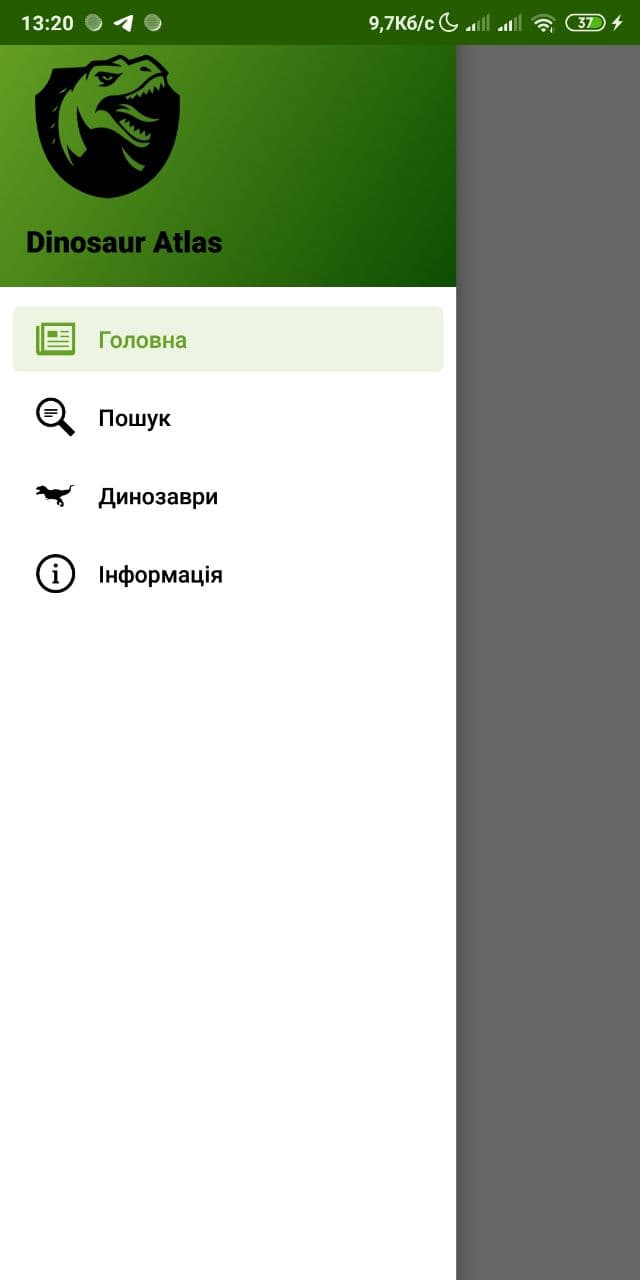
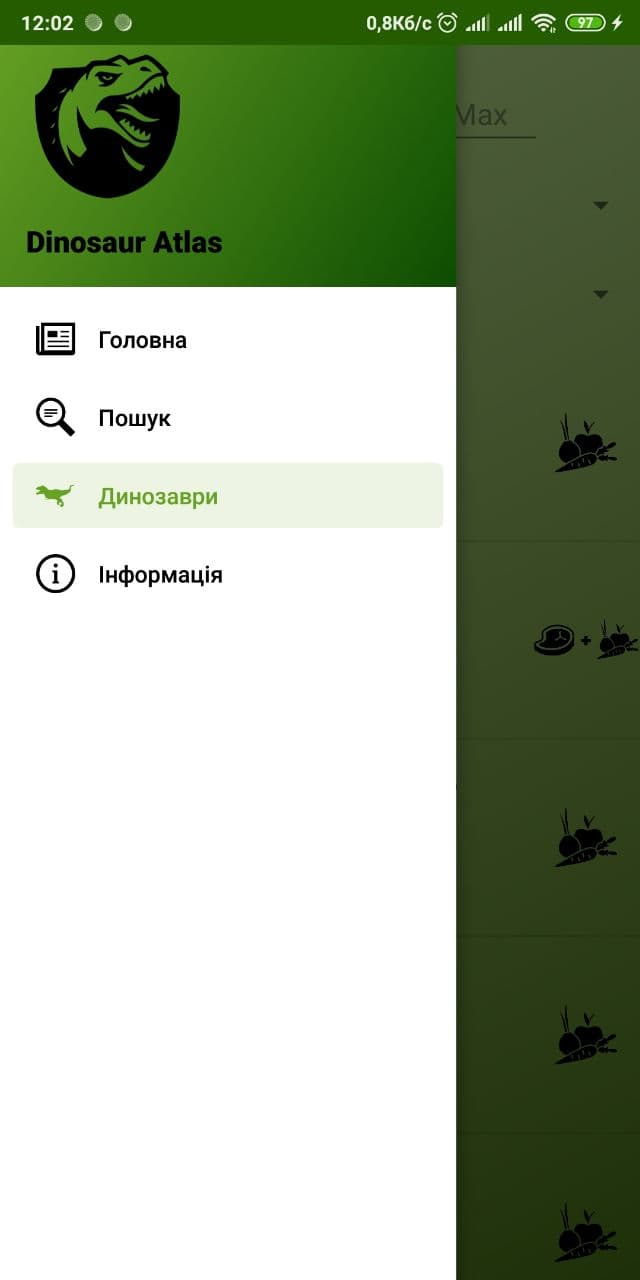
add new filters for dino eat and period, add new screanshots

diff --git a/Dino/app/src/main/java/vtpr/projects/dino/ui/filter/FilterFragment.java b/Dino/app/src/main/java/vtpr/projects/dino/ui/filter/FilterFragment.java
@@ -10,7 +10,10 @@ import android.text.TextWatcher;
 import android.view.LayoutInflater;
 import android.view.View;
 import android.view.ViewGroup;
+import android.widget.AdapterView;
+import android.widget.ArrayAdapter;
 import android.widget.EditText;
+import android.widget.Spinner;
 
 import androidx.annotation.NonNull;
 import androidx.fragment.app.Fragment;
@@ -22,6 +25,7 @@ import androidx.recyclerview.widget.RecyclerView;
 import java.io.IOException;
 import java.util.ArrayList;
 import java.util.List;
+import java.util.SortedMap;
 
 import vtpr.projects.dino.DatabaseHelper;
 import vtpr.projects.dino.DinoAdapter;
@@ -35,23 +39,27 @@ public class FilterFragment extends Fragment {
     private DatabaseHelper mDBHelper;
     private SQLiteDatabase mDb;
     private static List<Dino> dinoList = new ArrayList<>();
-    private static List<Dino> clearList = new ArrayList<>();
+    ArrayList<Dino> filteredlist = new ArrayList<>();
     private RecyclerView recyclerView;
-    private DinoAdapter dAdapter, clearAdapter;
+    private DinoAdapter dAdapter;
     private DinoAdapter.RecyclerViewClickListener listener;
     private String text_max, text_min;
     private int text_int_min = 0, text_int_max = 1000000;
     private int weight_int;
+    private int eat_int=0;
+    private String period_string="Не обрано";
     public EditText editText_min;
     public EditText editText_max;
+    private String[] data_eat = {"Не обрано","М'ясоїдні", "Рослиноїдні", "Всеядні"};
+    private String[] data_period = {"Не обрано","Крейдовий", "Юрський", "Тріасовий"};
 
     public View onCreateView(@NonNull LayoutInflater inflater,
                              ViewGroup container, Bundle savedInstanceState) {
         View view = inflater.inflate(R.layout.fragment_list_2, container,false);
         setOnClickListener();
         recyclerView = (RecyclerView) view.findViewById(R.id.rec_view);
+        dinoList.clear();
         dAdapter = new DinoAdapter(dinoList, listener);
-        clearAdapter = new DinoAdapter(clearList, listener);
         RecyclerView.LayoutManager mLayoutManager = new LinearLayoutManager(getContext());
         recyclerView.setLayoutManager(mLayoutManager);
         recyclerView.setItemAnimator(new DefaultItemAnimator());
@@ -90,15 +98,7 @@ public class FilterFragment extends Fragment {
                     text_min = s.toString();
                     text_int_min = Integer.parseInt(text_min);
                 }
-                if(text_int_min<=text_int_max)
-                {
-                    recyclerView.setAdapter(dAdapter);
-                    filter();
-                }
-                else
-                {
-                    recyclerView.setAdapter(clearAdapter);
-                }
+                filter();
             }
         });
 
@@ -122,15 +122,40 @@ public class FilterFragment extends Fragment {
                     text_max = s.toString();
                     text_int_max = Integer.parseInt(text_max);
                 }
-                if(text_int_max>=text_int_min)
-                {
-                    recyclerView.setAdapter(dAdapter);
-                    filter();
-                }
-                else
-                {
-                    recyclerView.setAdapter(clearAdapter);
-                }
+                filter();
+            }
+        });
+
+        ArrayAdapter<String> adapter_eat = new ArrayAdapter<String>(getContext(), android.R.layout.simple_spinner_item, data_eat);
+        adapter_eat.setDropDownViewResource(android.R.layout.simple_spinner_dropdown_item);
+        Spinner spinner_eat = view.findViewById(R.id.spinner_eat);
+        spinner_eat.setAdapter(adapter_eat);
+        spinner_eat.setSelection(0);
+        spinner_eat.setOnItemSelectedListener(new AdapterView.OnItemSelectedListener() {
+            @Override
+            public void onItemSelected(AdapterView<?> parent, View view,
+                                       int position, long id) {
+                eat_select(position);
+                filter();
+            }
+            @Override
+            public void onNothingSelected(AdapterView<?> arg0) {
+            }
+        });
+        ArrayAdapter<String> adapter_period = new ArrayAdapter<String>(getContext(), android.R.layout.simple_spinner_item, data_period);
+        adapter_period.setDropDownViewResource(android.R.layout.simple_spinner_dropdown_item);
+        Spinner spinner_period = view.findViewById(R.id.spinner_period);
+        spinner_period.setAdapter(adapter_period);
+        spinner_period.setSelection(0);
+        spinner_period.setOnItemSelectedListener(new AdapterView.OnItemSelectedListener() {
+            @Override
+            public void onItemSelected(AdapterView<?> parent, View view,
+                                       int position, long id) {
+                period_select(position);
+                filter();
+            }
+            @Override
+            public void onNothingSelected(AdapterView<?> arg0) {
             }
         });
         return view;
@@ -155,22 +180,29 @@ public class FilterFragment extends Fragment {
         };
     }
 
-    private void filter ()
-    {
-        ArrayList<Dino> filteredlist = new ArrayList<>();
-        for(Dino item:dinoList)
-        {
+    private void filter () {
+        filteredlist.clear();
+        for (Dino item : dinoList) {
             String weight = item.getWeight();
+            Integer eat = item.getEat();
+            String per = item.getPeriod();
             weight_int = Integer.parseInt(weight);
-            if((weight_int<=text_int_max)&&(weight_int>=text_int_min))
+            if(eat_int==0)
             {
+                eat=eat_int;
+            }
+            if(period_string.equals("Не обрано"))
+            {
+                per = period_string.toLowerCase();
+            }
+            if ((weight_int <= text_int_max) && (weight_int >= text_int_min) && (eat == eat_int) && (per.equals(period_string.toLowerCase()))) {
                 filteredlist.add(item);
             }
+            dAdapter.filterlist(filteredlist);
         }
-        dAdapter.filterlist(filteredlist);
     }
 
-    private void prepareDinoData() {
+        private void prepareDinoData() {
 
         int i=0;
         while(i<50) {
@@ -180,45 +212,70 @@ public class FilterFragment extends Fragment {
         dAdapter.notifyDataSetChanged();
     }
 
-    private Dino getInfo(int id)
-    {
-        String name ="";
-        String weight ="";
-        String period ="";
-        String dino_eat="";
-        int eat = 1;
-        int img = 1;
-        int dino_id = 0;
-        Cursor cursor = mDb.rawQuery("SELECT * FROM dino ORDER BY dino_name", null);
-        cursor.moveToFirst();
-        int i=0;
-        while (i<id)
+        private Dino getInfo(int id)
         {
-            cursor.moveToNext();
-            i++;
+            String name ="";
+            String weight ="";
+            String period ="";
+            String dino_eat="";
+            int eat = 1;
+            int img = 1;
+            int dino_id = 0;
+            Cursor cursor = mDb.rawQuery("SELECT * FROM dino ORDER BY dino_name", null);
+            cursor.moveToFirst();
+            int i=0;
+            while (i<id)
+            {
+                cursor.moveToNext();
+                i++;
+            }
+            dino_id =cursor.getInt(0);
+            name = cursor.getString(1);
+            weight = cursor.getString(2);
+            period = cursor.getString(4);
+            dino_eat = cursor.getString(3);
+            switch(dino_eat)
+            {
+                case("м'ясо"):
+                    eat=1 ;
+                    break;
+                case("вег"):
+                    eat=2 ;
+                    break;
+                case("все"):
+                    eat=3 ;
+                    break;
+            }
+            img=cursor.getInt(5);
+            cursor.close();
+            Dino dino = new Dino(name, weight, period, eat, img, dino_id);
+            return dino;
         }
-        dino_id =cursor.getInt(0);
-        name = cursor.getString(1);
-        weight = cursor.getString(2);
-        period = cursor.getString(4);
-        dino_eat = cursor.getString(3);
-        switch(dino_eat)
+
+        private void eat_select(int eat_select)
         {
-            case("м'ясо"):
-                eat=1 ;
-                break;
-            case("вег"):
-                eat=2 ;
-                break;
-            case("все"):
-                eat=3 ;
-                break;
+            eat_int=eat_select;
         }
-        img=cursor.getInt(5);
-        cursor.close();
-        Dino dino = new Dino(name, weight, period, eat, img, dino_id);
-        return dino;
+
+        private void period_select(int period_select)
+        {
+            switch(period_select)
+            {
+                case(0):
+                    period_string="Не обрано";
+                    break;
+                case(1):
+                    period_string="Крейдовий";
+                    break;
+                case(2):
+                    period_string="Юрський";
+                    break;
+                case(3):
+                    period_string="Тріасовий";
+                    break;
+            }
+
+        }
+
+
     }
-
-
-}

diff --git a/Dino/app/src/main/java/vtpr/projects/dino/ui/list/ListFragment.java b/Dino/app/src/main/java/vtpr/projects/dino/ui/list/ListFragment.java
@@ -28,17 +28,18 @@ public class ListFragment extends Fragment {
     private DatabaseHelper mDBHelper;
     private SQLiteDatabase mDb;
     private static List<Dino> dinoList = new ArrayList<>();
+    ArrayList<Dino> filteredlist = new ArrayList<>();
     private RecyclerView recyclerView;
     private DinoAdapter dAdapter;
     private DinoAdapter.RecyclerViewClickListener listener;
     private String text;
     public EditText editText;
-
     public View onCreateView(@NonNull LayoutInflater inflater,
                              ViewGroup container, Bundle savedInstanceState) {
         View view = inflater.inflate(R.layout.fragment_list, container,false);
         setOnClickListener();
         recyclerView = (RecyclerView) view.findViewById(R.id.rec_view);
+        dinoList.clear();
         dAdapter = new DinoAdapter(dinoList, listener);
         RecyclerView.LayoutManager mLayoutManager = new LinearLayoutManager(getContext());
         recyclerView.setLayoutManager(mLayoutManager);
@@ -100,7 +101,7 @@ public class ListFragment extends Fragment {
 
     private void filter (String text)
     {
-        ArrayList<Dino> filteredlist = new ArrayList<>();
+        filteredlist.clear();
         for(Dino item:dinoList)
         {
             if(item.getName().toLowerCase().contains(text.toLowerCase()))

diff --git a/README.md b/README.md
@@ -5,4 +5,7 @@ Mobile app; Android studio; Java;
 <img src="https://github.com/nprblm/dyno_mobile/blob/main/screanshots/scr_1.jpg" height="600">
 <img src="https://github.com/nprblm/dyno_mobile/blob/main/screanshots/scr_2.jpg" height="600">
 <img src="https://github.com/nprblm/dyno_mobile/blob/main/screanshots/scr_3.jpg" height="600">
+<img src="https://github.com/nprblm/dyno_mobile/blob/main/screanshots/scr_4.jpg" height="600">
+<img src="https://github.com/nprblm/dyno_mobile/blob/main/screanshots/scr_5.jpg" height="600">
+<img src="https://github.com/nprblm/dyno_mobile/blob/main/screanshots/scr_6.jpg" height="600">
 \
